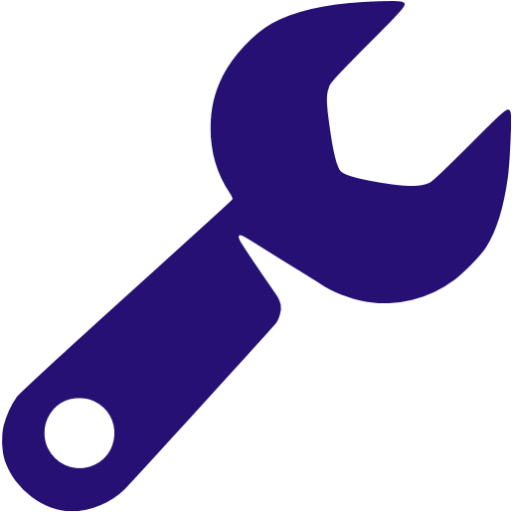
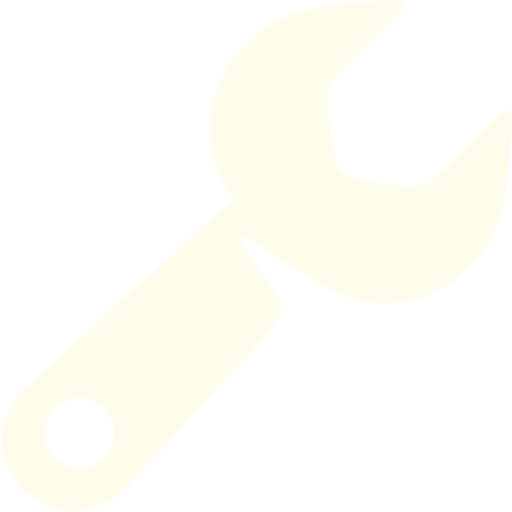
changed project-tech color

diff --git a/styles/globals.css b/styles/globals.css
@@ -4,7 +4,7 @@ body {
   margin: 0;
   font-family: sans-serif;
   scroll-behavior: smooth;
-  scroll-padding-top: 2.75vh;
+  scroll-padding-top: 2.85vh;
   font-size: 1rem;
 }
 
@@ -320,15 +320,16 @@ h2 {
   justify-content: flex-start;
   margin: 3vh 0vw;
   font-size: .9rem;
-  background-color: #ffd630;
   padding: 10px 10px;
-  border-radius: 10px;
+  background: rgb(31,19,70);
+  background: linear-gradient(0deg, rgba(31,19,70,1) 0%, rgba(27,14,70,1) 25%);
+  border-radius: 20px;
   font-weight: 600;
   line-height: 1.35rem;
 }
 
 .project-tech p {
-  color: #271073;
+  color: #fefceb;
 }
 
 .project-tech img {
